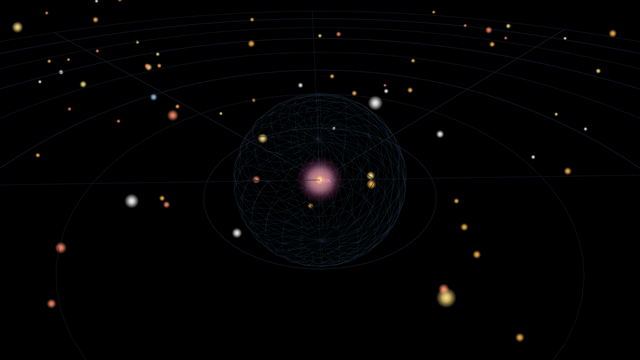
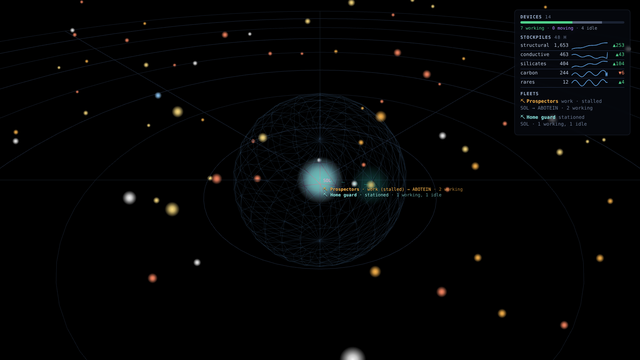
Settings for relay/hub range, fleets and the dashboard panel
Show relay/hub range, Show fleets and Dashboard panel (Right/Left/Off) pass cover,
fleets and hud to the client's wallpaper page (fleets and the panel need client
1.29.0; older clients ignore them). New preview images.

Claude-Session: https://claude.ai/code/session_01QkRgNdiSgaWDkDuW8ndNLw

diff --git a/src/replicant-space/launcher.js b/src/replicant-space/launcher.js
@@ -5,11 +5,14 @@
   "use strict";
 
   var VIEWS = { "Galaxy": "galaxy", "One system": "system", "Cycle my systems": "cycle" };
-  var opts = { link: "", view: "Galaxy", system: "", labels: true, rotate: 4, refresh: 5, cycle: 60 };
+  var opts = { link: "", view: "Galaxy", system: "", labels: true, cover: true, fleets: true, hud: "Right", rotate: 4, refresh: 5,
+              cycle: 60 };
   var wall = document.getElementById("wall");
   var setup = document.getElementById("setup");
   var why = document.getElementById("why");
   var current = null;
+
+  function off(v) { return v === false || v === "false" || v === "0"; }
 
   function num(v, d, lo, hi) {
     var n = parseFloat(v);
@@ -51,7 +54,11 @@
     q.set("view", VIEWS[opts.view] || "galaxy");
     var star = String(opts.system || "").trim().toUpperCase();
     if (star) q.set("star", star);
-    q.set("labels", opts.labels === false || opts.labels === "false" ? "0" : "1");
+    q.set("labels", off(opts.labels) ? "0" : "1");
+    q.set("cover", off(opts.cover) ? "0" : "1");
+    q.set("fleets", off(opts.fleets) ? "0" : "1");
+    var hud = String(opts.hud || "Right").toLowerCase();
+    q.set("hud", hud === "left" || hud === "off" ? hud : "right");
     q.set("rotate", String(num(opts.rotate, 4, 0, 20) / 10));
     q.set("refresh", String(Math.round(num(opts.refresh, 5, 1, 120))));
     q.set("cycle", String(Math.round(num(opts.cycle, 60, 10, 3600))));

diff --git a/README.md b/README.md
@@ -3,7 +3,8 @@
 Your [Replicant Space](https://replicant.space) galaxy and star systems as a live Windows desktop wallpaper, using
 [Octos](https://github.com/underpig1/octos). It shows the same maps as your
 [Replicant Space web client](https://github.com/sk3ynet/replicant.space-frontend): your systems and replicants, relay
-and hub range, scanned systems, and ships in transit, all live.
+and hub range, scanned systems, ships in transit and your fleets, all live, with a dashboard panel showing device
+activity, your stockpiles with a 48-hour trend, and each fleet's mission.
 
 ![Galaxy and system views](src/replicant-space/preview.png)
 
@@ -12,7 +13,7 @@ This is an optional add-on. The web client works the same without it.
 ## What you need
 
 - Windows 10 or 11 with [Octos](https://github.com/underpig1/octos#quickstart) installed.
-- Your Replicant Space web client, version **1.28.0 or later**, reachable from that PC (for example
+- Your Replicant Space web client, version **1.28.0 or later** (1.29.0 for fleets and the dashboard panel), reachable from that PC (for example
   `https://replicant.example.com`).
 
 ## Install
@@ -33,6 +34,9 @@ This is an optional add-on. The web client works the same without it.
 | Show | **Galaxy** (3D, slowly turning), **One system**, or **Cycle my systems** (every system with your devices, in turn). |
 | System | For *One system*: which one, e.g. `FALQUORYX`. For *Galaxy*: the star to centre on. Blank centres on your replicant. |
 | Show labels | Star and place names, and the labels of ships in transit. |
+| Show relay/hub range | The faint spheres around your relays (7.5 ly) and hubs (15 ly) on the galaxy. |
+| Show fleets | On the galaxy, a teal ring where each fleet's devices are, labelled with what the fleet is doing (mission phase, how many devices are working / moving / idle), and a dashed line to the system its mission is headed for. Stalled fleets show in amber. In the system views, the fleets in that system are listed under its name. Needs client 1.29.0. |
+| Dashboard panel | **Right**, **Left** or **Off**: devices working / moving / idle, stockpiles with their 48-hour trend, and your fleets' missions. Needs client 1.29.0. |
 | Galaxy rotation speed | 0 stands still. |
 | Refresh every | Minutes between data refreshes. |
 | Cycle: seconds per system | For *Cycle my systems*. |
